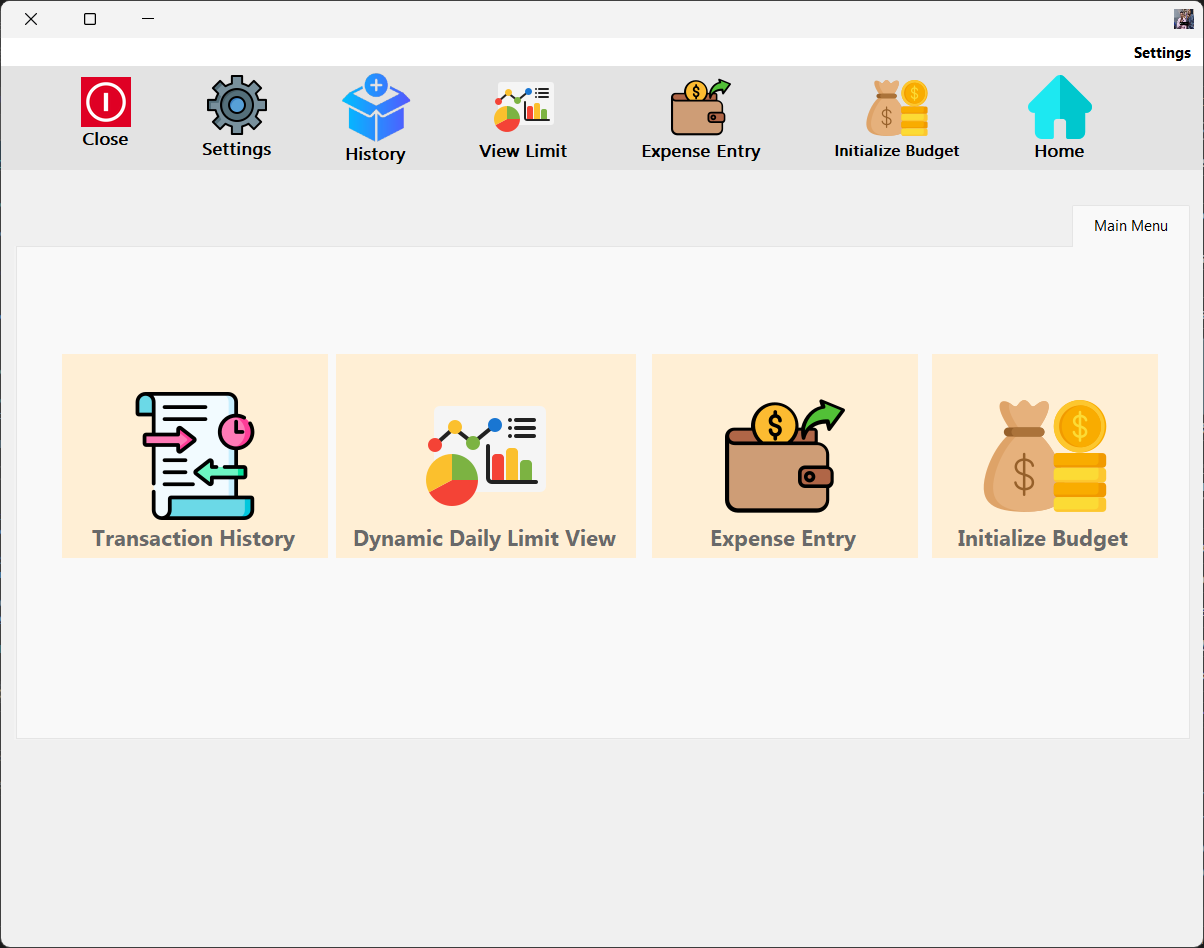
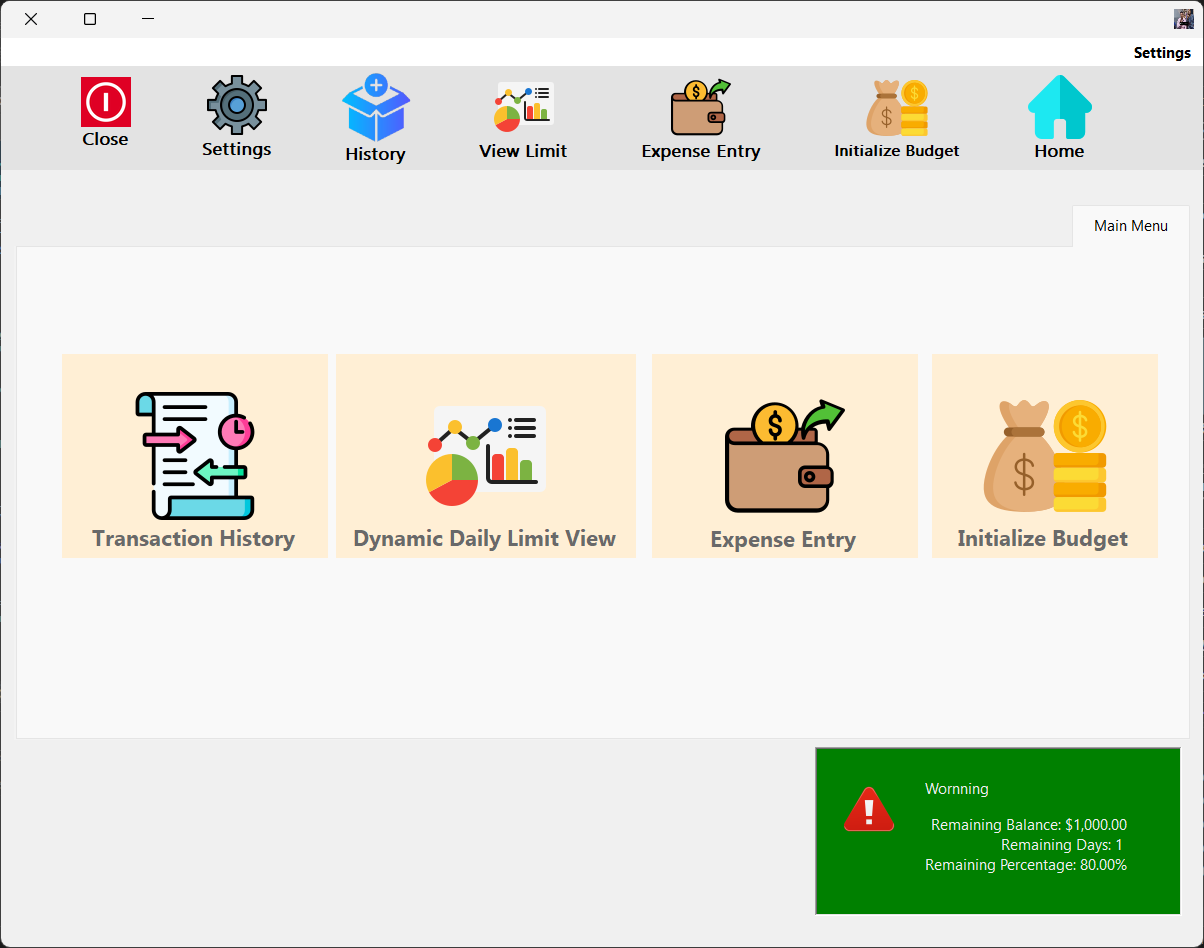
It seems your list of code changes is empty. Could you provide the descriptions of the changes made to the files? Once you do, I can help craft a concise and comprehensive commit message for you!

Changed region(s): [[0.6761, 0.7648, 0.9834, 0.9789], [0.5839, 0.5506, 0.7068, 0.5812]]

diff --git a/README.md b/README.md
@@ -34,7 +34,7 @@ It allows users to manage budget cycles, track expenses, visualize spending stat
 ## 📸 Preview
 
 <p align="center">
-  <img src="https://via.placeholder.com/1000x500.png?text=Masroofy+Dashboard+Preview"
+  <img src="https://github.com/mohamed5580/Masroofy/blob/main/Doc/Dashboard.png"
        alt="Masroofy Preview"
        width="90%">
 </p>
@@ -91,7 +91,7 @@ Masroofy/
 
 🚀 Technologies Used
 
-<div align="center"> <table> <tr> <td align="center"> <img src="https://raw.githubusercontent.com/github/explore/main/topics/csharp/csharp.png" width="70"/><br/> <b>C#</b> </td> <td align="center"> <img src="https://raw.githubusercontent.com/github/explore/main/topics/dotnet/dotnet.png" width="70"/><br/> <b>.NET 9</b> </td> <td align="center"> <img src="https://raw.githubusercontent.com/github/explore/main/topics/sqlite/sqlite.png" width="70"/><br/> <b>SQLite</b> </td> <td align="center"> <img src="https://raw.githubusercontent.com/github/explore/main/topics/mysql/mysql.png" width="70"/><br/> <b>MySQL</b> </td> <td align="center"> <img src="https://raw.githubusercontent.com/github/explore/main/topics/microsoft-sql-server/microsoft-sql-server.png" width="70"/><br/> <b>SQL Server</b> </td> </tr> </table> </div>
+<div align="center"> <table> <tr> <td align="center"> <img src="https://raw.githubusercontent.com/github/explore/main/topics/csharp/csharp.png" width="70"/><br/> <b>C#</b> </td> <td align="center"> <img src="https://raw.githubusercontent.com/github/explore/main/topics/dotnet/dotnet.png" width="70"/><br/> <b>.NET 9</b> </td> <td align="center"> <img src="https://raw.githubusercontent.com/github/explore/main/topics/sqlite/sqlite.png" width="70"/><br/> <b>SQLite</b> </td> <td align="center"> <img src="https://raw.githubusercontent.com/github/explore/main/topics/mysql/mysql.png" width="70"/><br/> <b>MySQL</b> </td> <td align="center"> <img src="https://github.com/mohamed5580/Masroofy/blob/main/Doc/microsoft-sql-server.png" width="70"/><br/> <b>SQL Server</b> </td> </tr> </table> </div>
 
 ⚙ How to Run
 1⃣ Clone Repository
@@ -119,7 +119,7 @@ Daily safe spending limit
 Pie chart analytics
 Final-day warnings
 
-<p align="center"> <img src="https://via.placeholder.com/900x400.png?text=Statistics+Dashboard" width="85%" alt="Dashboard"/> </p>
+<p align="center"> <img src="https://github.com/mohamed5580/Masroofy/blob/main/Doc/Dashboard.png" width="85%" alt="Dashboard"/> </p>
 
 📦 Dependencies
 Package	Purpose
